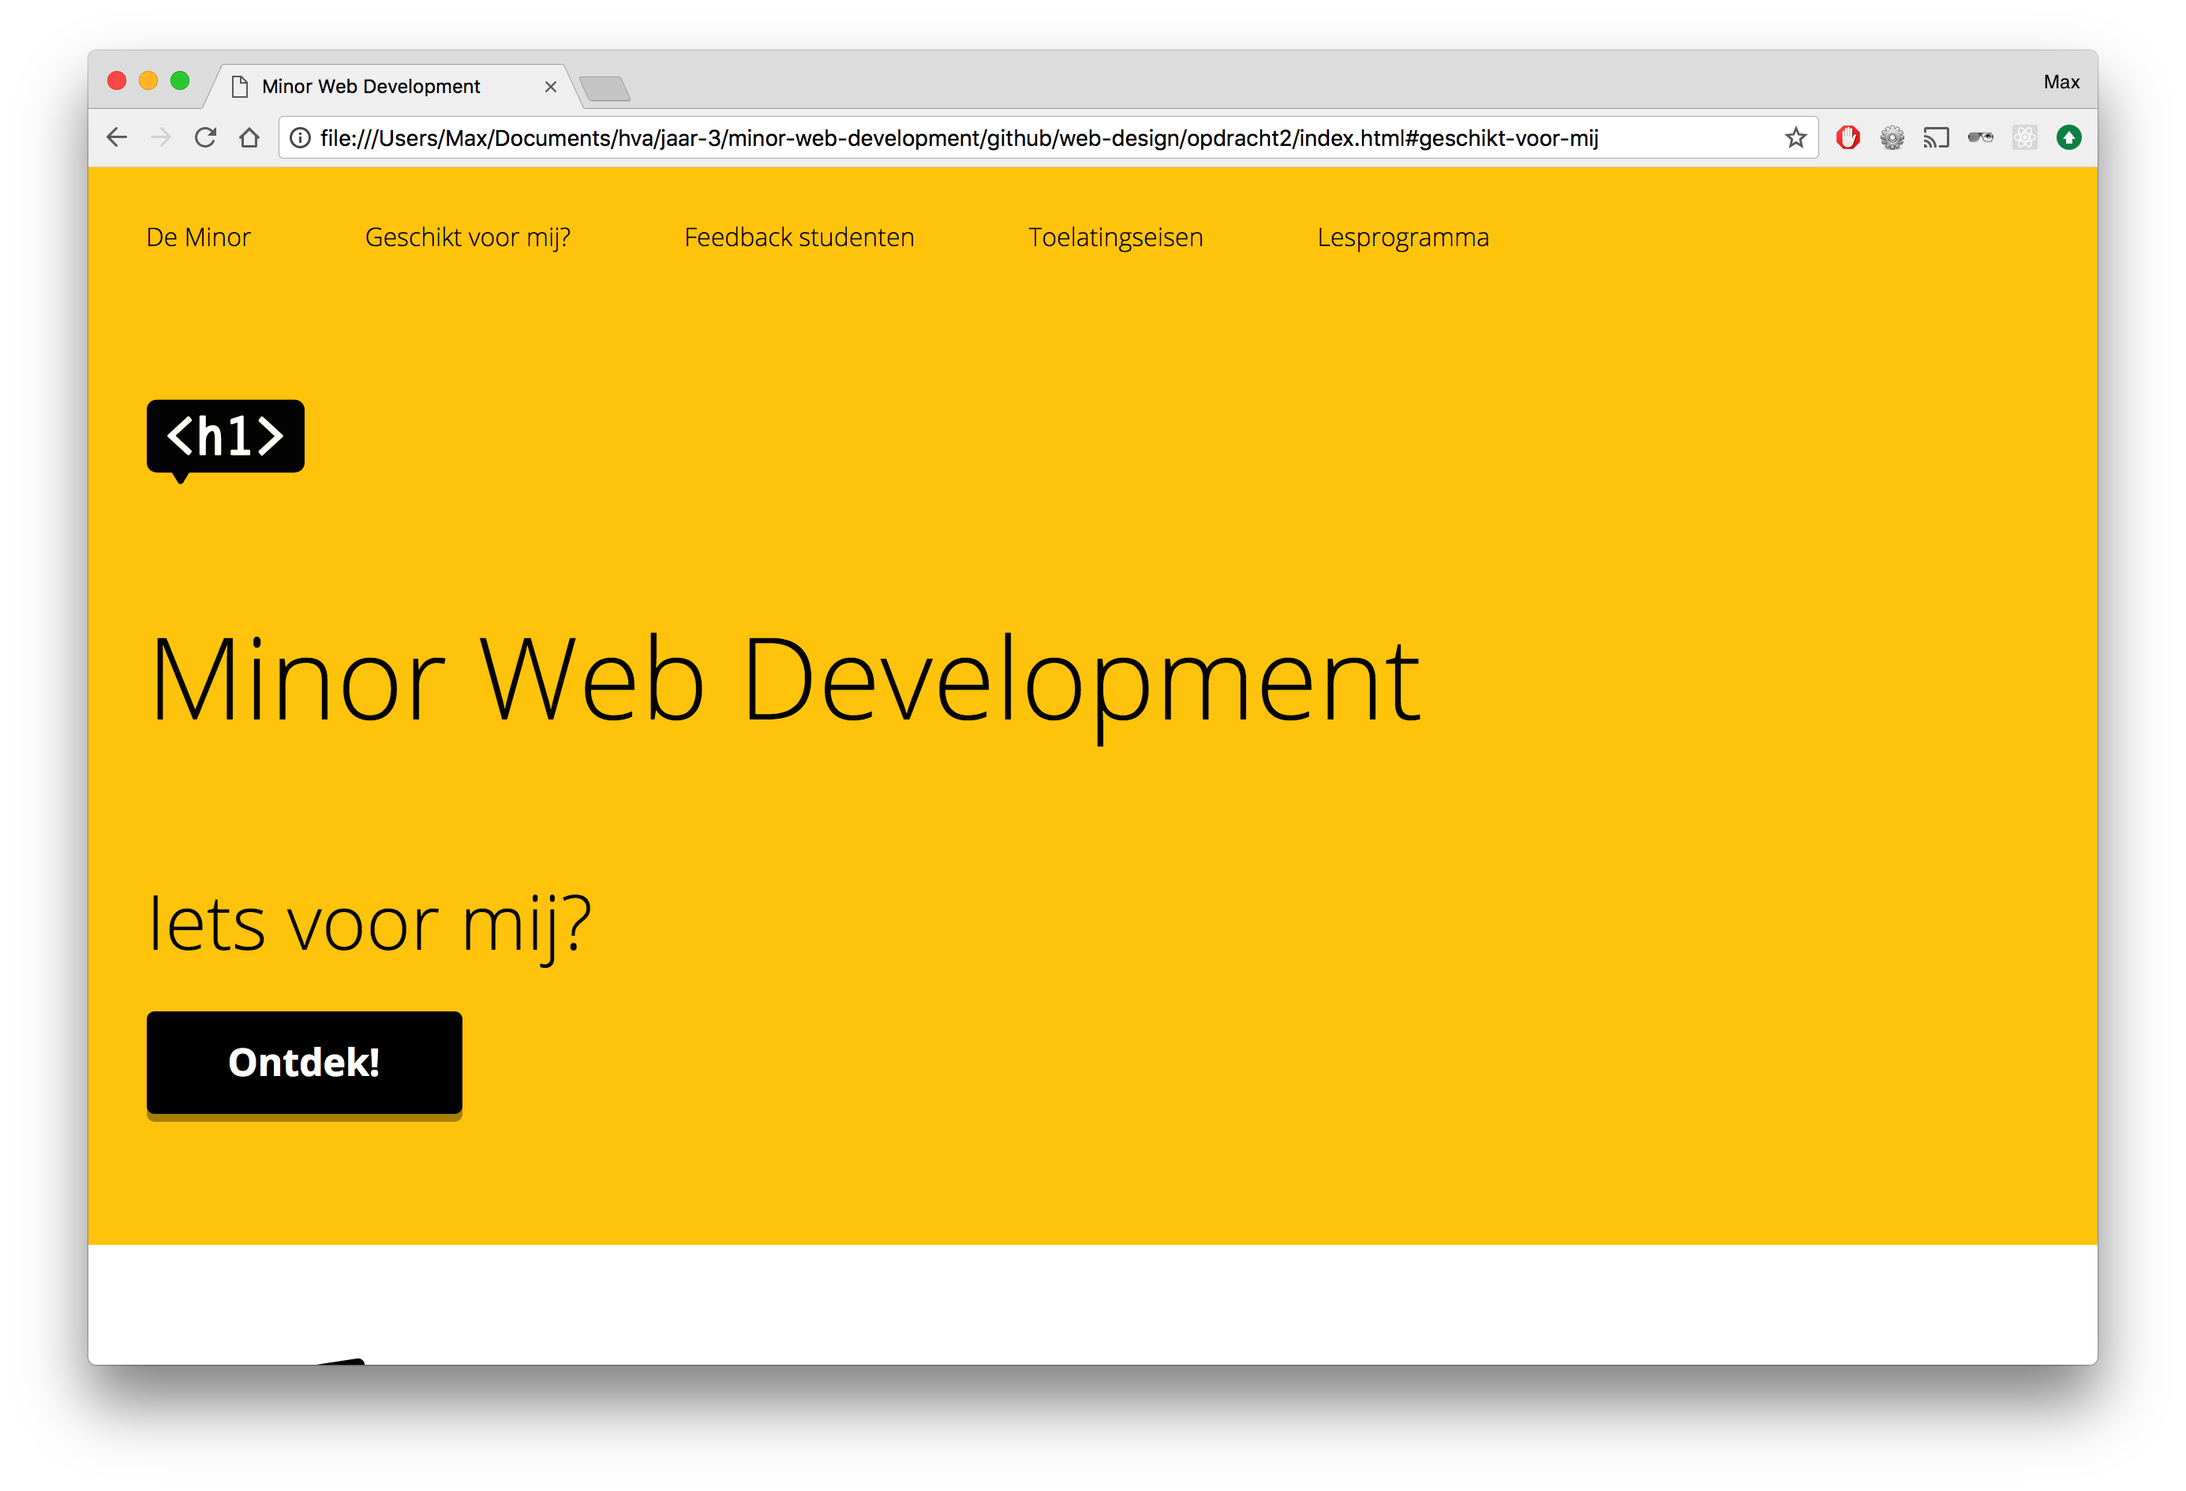
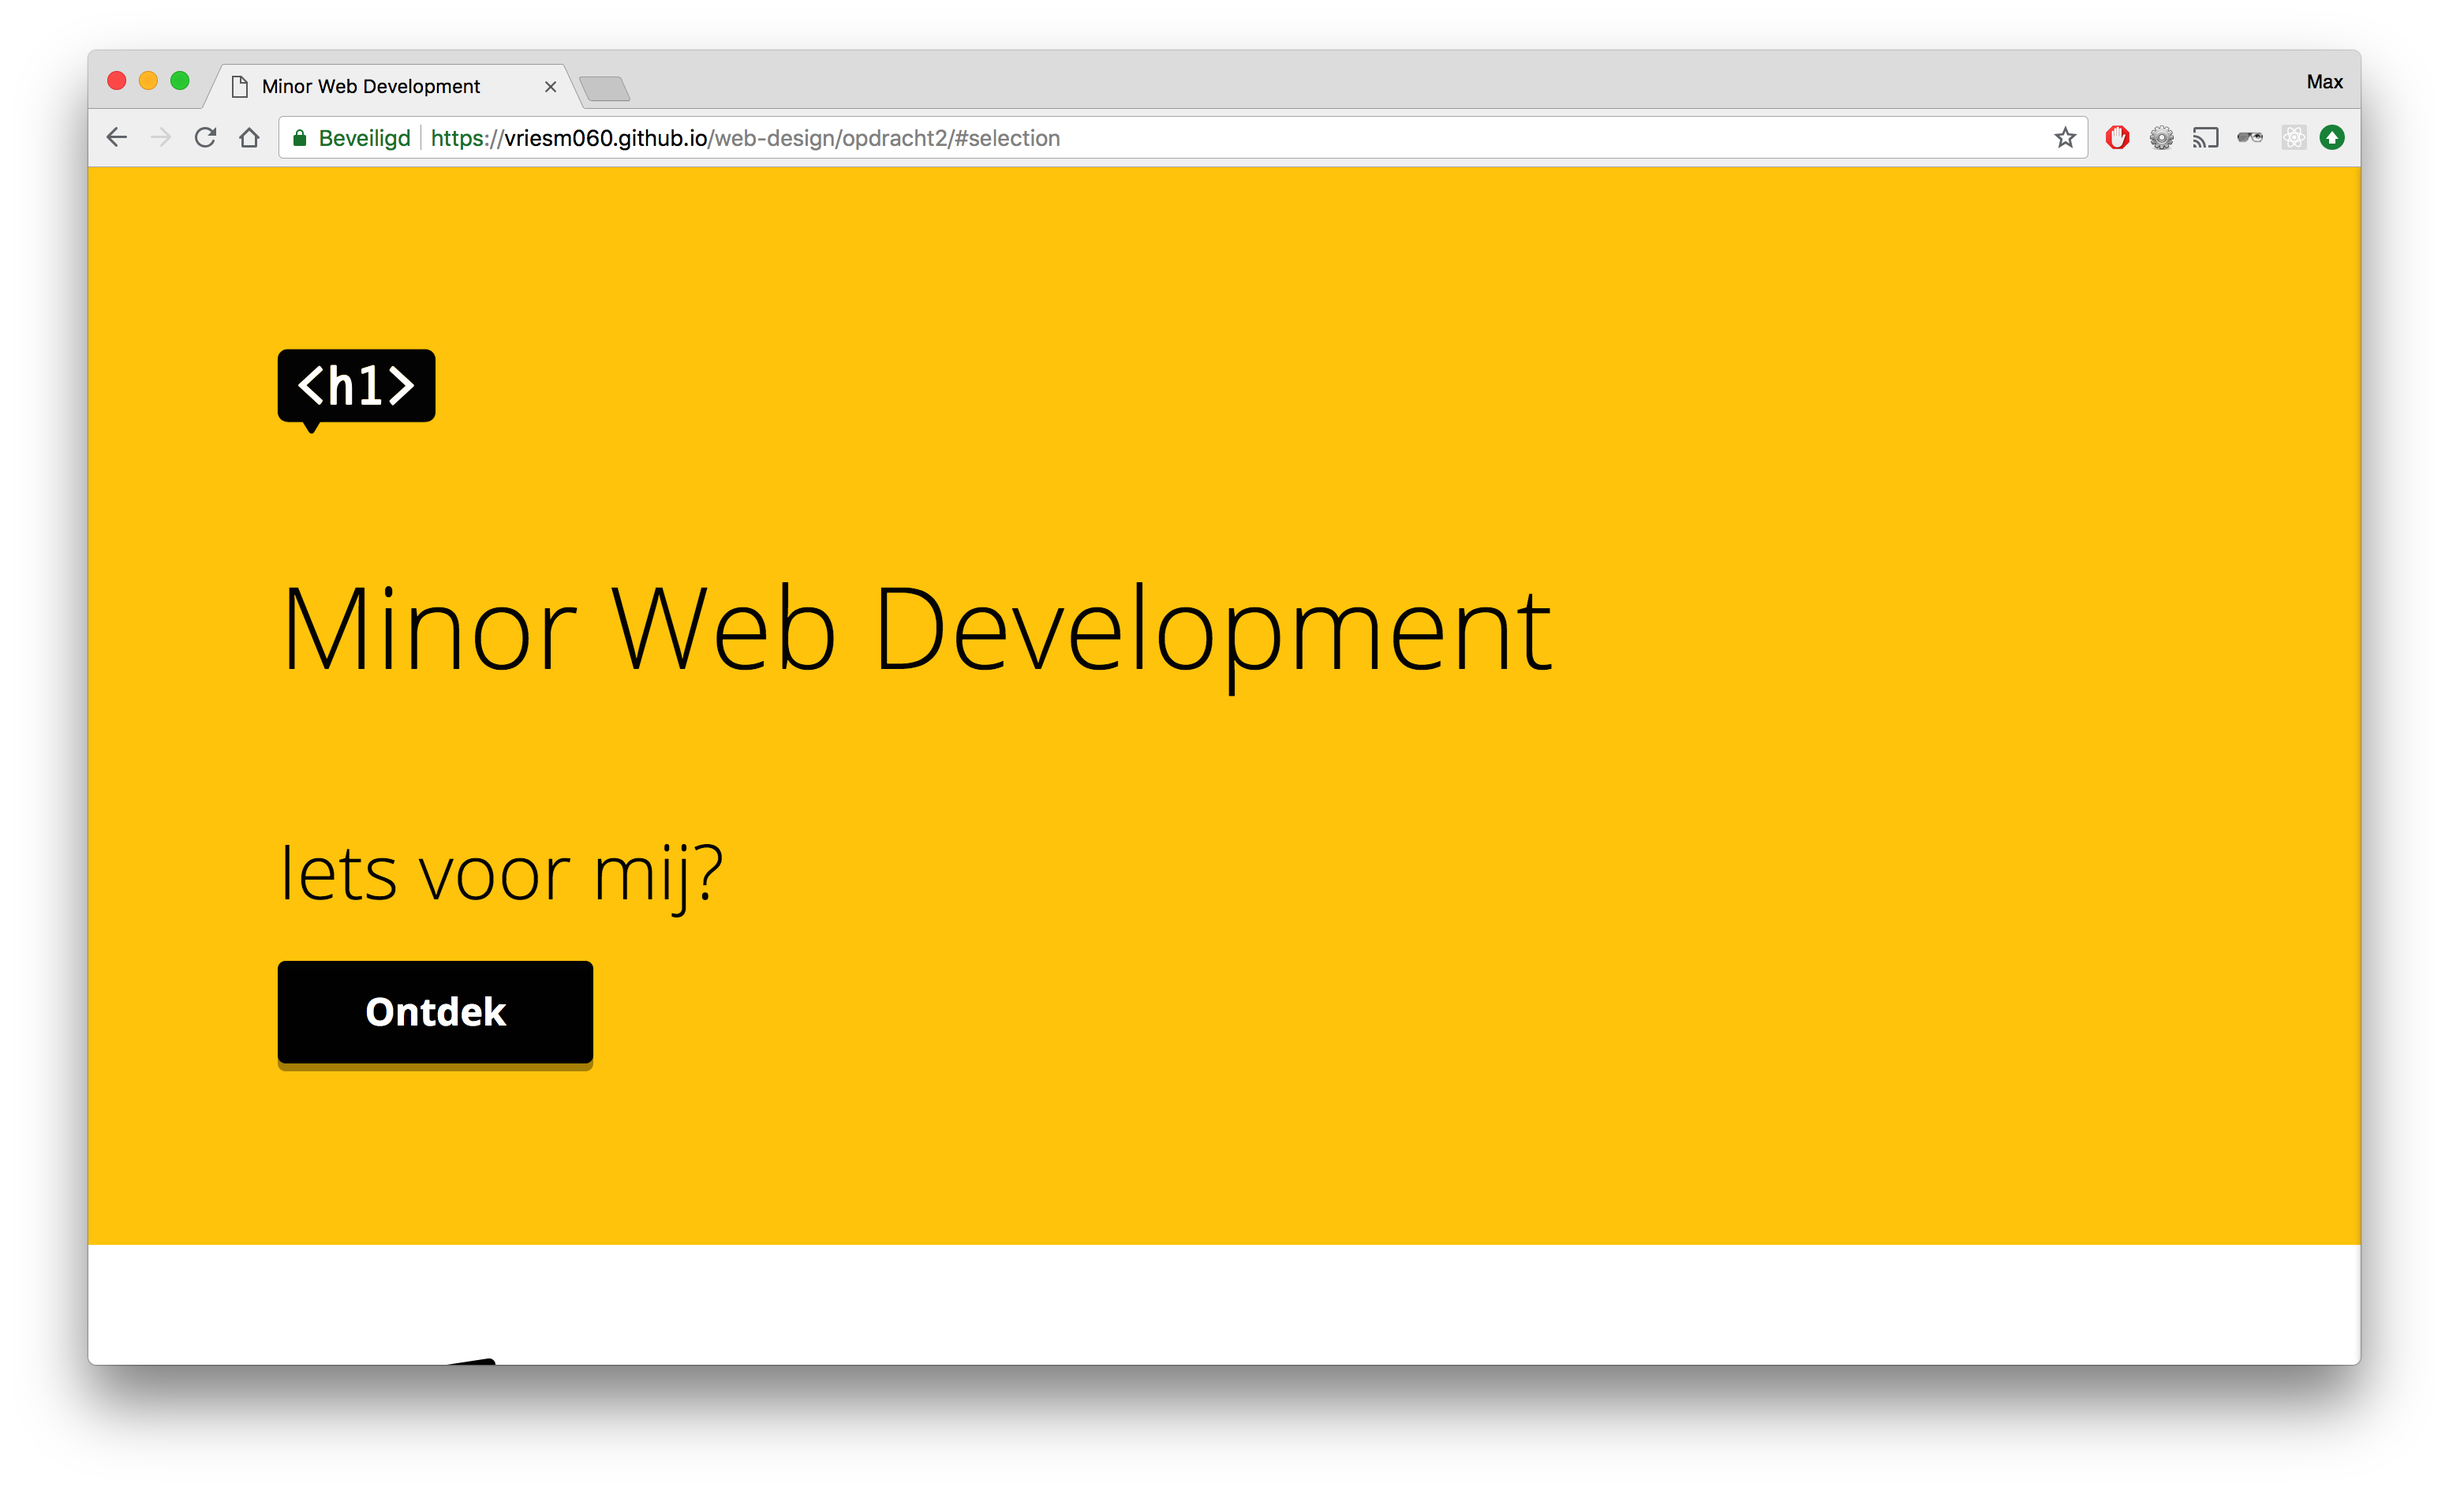
Add new user scenario, new designs and intro

diff --git a/opdracht2/README.md b/opdracht2/README.md
@@ -1,6 +1,8 @@
 # Minor Web Development Website
 
-<!-- Brief description of the project. What is it about? -->
+![Voorbeeld](screenshots/preview.png)
+
+Voor het vak Web Design heb ik een herontwerp gemaakt voor de website van de Minor Web Development. Dit ontwerp is speciaal bedoelt voor studenten van buiten de opleiding Communication and Multimedia Design (CMD) waarbinnen de minor gegeven wordt en voor Larissa, die blind is en de website via toetsenbord moet besturen.
 
 [Demo](https://vriesm060.github.io/web-design/opdracht2/)
 
@@ -32,43 +34,54 @@ Larissa is blind en vindt het daarom belangrijk dat de website een goede structu
 ### Student van buiten CMD, geïnteresseerd in de minor
 ---
 
-Een student die geïnteresseerd is in de minor Web Development komt naar de website om informatie te vinden over de minor. Deze student wil graag weten van studenten die deze minor hebben gevolgd wat zij er van vonden en of deze minor geschikt is voor hem/haar.
-Wanneer deze student het gevoel heeft dat deze minor perfect is om te volgen, moet hij/zij zich kunnen aanmelden en weten hoe dit proces gaat.
+Een student buiten de opleiding CMD heeft interesse in User Interface Design en Interaction Design, maar wilt graag leren hoe hij/zij dit technisch kan toepassen. Hij/zij heeft al enige ervaring met HTML en CSS, maar verder nog niet veel technische kennis. Hij/zij wilt graag weten of deze minor geschikt is om dit te leren.
 
 ## Werkwijze
 
 ### Card Sorting
 ---
 
-<!-- Uitleggen ontwerpkeuzes -->
+Het eerste waar ik mee begon, was Card Sorting, waarbij ik alle onderwerpen die ik aan bod wilde laten komen in de website opschreef op een sticky note, om vervolgens te gaan kijken hoe ik deze onderwerpen kon sorteren. Hiermee kreeg ik een goed overzicht van de inhoud van de website.
 
-![Card Sorting](screenshots/card-sorting.jpg)
+**Eerste Card Sorting sessie:**
+![Card Sorting sessie 1](screenshots/card-sorting-001.jpg)
 
-<!-- Info over card sorting -->
+Voor de redesign van de website heb ik een nieuwe Card Sorting sessie gehouden.
 
-### Eerste Ontwerpen
+**Tweede Card Sorting sessie:**
+![Card Sorting sessie 2](screenshots/card-sorting-002.jpg)
+
+### Eerste Ontwerp
 ---
 
-<!-- Info over eerste ontwerpen -->
+De eerste ontwerpen gaven een basis voor de stijl van de website. Dit ontwerp gaf alle huidige informatie weer in een nieuwe stijl, waarbij de focus lag op het aanmelden voor de minor. Vandaar dat de aanmeldknop veel aandacht krijgt.
 
 **Mobiel:**
-<img src="screenshots/preview-mobile.png" width="50%">
+<img src="screenshots/design-001-mobile.png" width="50%">
 
 **Desktop:**
-![Preview Desktop](screenshots/preview-desktop.png)
+![Design 001 Desktop](screenshots/design-001-desktop.png)
 
 ### Redesign
 ---
 
-<!-- Info over redesign -->
+Bij het tweede ontwerp lag de focus veel meer op de student die geïnteresseerd is in de minor. Bij dit ontwerp is het belangrijk dat de website persoonlijk is. Vandaar de vraag: "Iets voor mij?". Zo spreekt het meer aan en geeft het meer het gevoel dat je kan ontdekken of deze minor wel iets voor je is.
+
+**Mobiel:**
+<img src="screenshots/design-002-mobile.png" width="50%">
+
+**Desktop:**
+![Design 002 Desktop](screenshots/design-002-desktop.png)
 
 ## Eindoplevering
 
 <!-- Beschrijf hoe de content en flow past bij mijn user scenario's -->
 
-![Preview](screenshots/preview.png)
-
 Ik heb het onderwerp van de website gericht op de student die wilt weten of deze minor geschikt is voor hem/haar. Vandaar dat ik het woord 'mij' veel gebruik, om het zo persoonlijk mogelijk te houden.
+
+Als je binnenkomt op de website, krijg je de vraag: "Iets voor mij?" en de bijbehorende knop "Ontdek". Deze vraag is wat een student buiten CMD graag beantwoord wil hebben en waar de website vervolgens ook voor moet zorgen.
+
+
 
 ![Testimonials](screenshots/testimonials.png)
 
